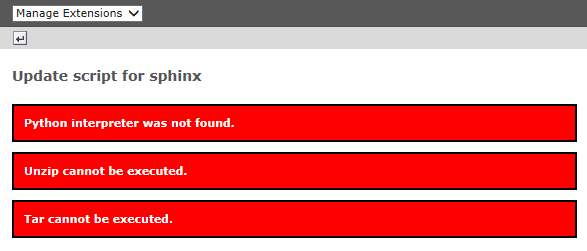
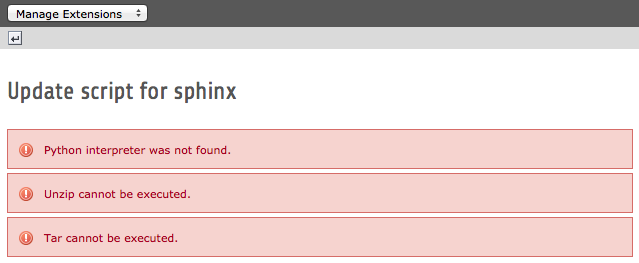
[TASK] Change color in flash messages
We should use the green color for success and respectively the
"official" yellow of TYPO3 for warnings when displaying flash
messages.

Resolves: #50766

diff --git a/class.ext_update.php b/class.ext_update.php
@@ -107,6 +107,9 @@ class ext_update extends \TYPO3\CMS\Backend\Module\BaseScriptClass {
 
 				foreach ($messages as $message) {
 					switch (TRUE) {
+						case GeneralUtility::isFirstPartOfStr($message, '[OK] '):
+							$out[] = $this->formatOk(substr($message, 5));
+							break;
 						case GeneralUtility::isFirstPartOfStr($message, '[INFO] '):
 							$out[] = $this->formatInformation(substr($message, 7));
 							break;
@@ -262,8 +265,9 @@ class ext_update extends \TYPO3\CMS\Backend\Module\BaseScriptClass {
 	 * @return string
 	 */
 	protected function formatError($message) {
-		$output = '<div style="border: solid 2px black;	background-color: #f00; color: #fff; padding: 10px; font-weight: bold; margin: 10px 0px 10px 0px;">';
-		$output .= nl2br(htmlspecialchars($message));
+		$output = '<div class="typo3-message message-error">';
+		//$output .= '<div class="message-header">Message head</div>';
+		$output .= '<div class="message-body">' . nl2br(htmlspecialchars($message)) . '</div>';
 		$output .= '</div>';
 
 		return $output;
@@ -276,8 +280,9 @@ class ext_update extends \TYPO3\CMS\Backend\Module\BaseScriptClass {
 	 * @return string
 	 */
 	protected function formatWarning($message) {
-		$output = '<div style="border: solid 2px black;	background-color: yellow; padding: 10px; font-weight: bold; margin: 10px 0px 10px 0px;">';
-		$output .= nl2br(htmlspecialchars($message));
+		$output = '<div class="typo3-message message-warning">';
+		//$output .= '<div class="message-header">Message head</div>';
+		$output .= '<div class="message-body">' . nl2br(htmlspecialchars($message)) . '</div>';
 		$output .= '</div>';
 
 		return $output;
@@ -290,12 +295,29 @@ class ext_update extends \TYPO3\CMS\Backend\Module\BaseScriptClass {
 	 * @return string
 	 */
 	protected function formatInformation($message) {
-		$output = '<div style="border: solid 2px black;	background-color: lightblue; padding: 10px; font-weight: bold; margin: 10px 0px 10px 0px;">';
-		$output .= nl2br(htmlspecialchars($message));
+		$output = '<div class="typo3-message message-information">';
+		//$output .= '<div class="message-header">Message head</div>';
+		$output .= '<div class="message-body">' . nl2br(htmlspecialchars($message)) . '</div>';
 		$output .= '</div>';
 
 		return $output;
 	}
+
+	/**
+	 * Creates an OK message for backend output.
+	 *
+	 * @param string $message
+	 * @return string
+	 */
+	protected function formatOk($message) {
+		$output = '<div class="typo3-message message-ok">';
+		//$output .= '<div class="message-header">Message head</div>';
+		$output .= '<div class="message-body">' . nl2br(htmlspecialchars($message)) . '</div>';
+		$output .= '</div>';
+
+		return $output;
+	}
+
 }
 
 ?>

diff --git a/Classes/Utility/Setup.php b/Classes/Utility/Setup.php
@@ -195,7 +195,7 @@ class Setup {
 				$out = array();
 				self::exec($cmd, $out, $ret);
 				if ($ret === 0) {
-					$output[] = '[INFO] Sphinx ' . $version . ' has been successfully installed.';
+					$output[] = '[OK] Sphinx ' . $version . ' has been successfully installed.';
 				} else {
 					$success = FALSE;
 					$output[] = '[ERROR] Could not install Sphinx ' . $version . ':' . LF . LF . implode($out, LF);
@@ -267,14 +267,14 @@ EOT;
 
 		if (is_dir($sphinxSourcesPath . $version)) {
 			if (GeneralUtility::rmdir($sphinxSourcesPath . $version, TRUE)) {
-				$output[] = '[INFO] Sources of Sphinx ' . $version . ' have been deleted.';
+				$output[] = '[OK] Sources of Sphinx ' . $version . ' have been deleted.';
 			} else {
 				$output[] = '[ERROR] Could not delete sources of Sphinx ' . $version . '.';
 			}
 		}
 		if (is_dir($sphinxPath . $version)) {
 			if (GeneralUtility::rmdir($sphinxPath . $version, TRUE)) {
-				$output[] = '[INFO] Sphinx ' . $version . ' has been deleted.';
+				$output[] = '[OK] Sphinx ' . $version . ' has been deleted.';
 			} else {
 				$output[] = '[ERROR] Could not delete Sphinx ' . $version . '.';
 			}
@@ -751,7 +751,7 @@ EOT;
 		if ($libraryContent) {
 			if (!is_file($libraryFilename) || md5_file($libraryFilename) !== md5($libraryContent)) {
 				if (GeneralUtility::writeFile($libraryFilename, $libraryContent)) {
-					$output[] = '[INFO] TypoScript library for Pygments successfully downloaded/updated.';
+					$output[] = '[OK] TypoScript library for Pygments successfully downloaded/updated.';
 				}
 			}
 			if (is_file($libraryFilename)) {
@@ -762,7 +762,7 @@ EOT;
 				$out = array();
 				self::exec($cmd, $out, $ret);
 				if ($ret === 0) {
-					$output[] = '[INFO] TypoScript library successfully registered with Pygments.';
+					$output[] = '[OK] TypoScript library successfully registered with Pygments.';
 				} else {
 					$output[] = '[WARNING] Could not install TypoScript library for Pygments.';
 				}
@@ -1025,7 +1025,7 @@ EOT;
 			self::exec($cmd, $out, $ret);
 			if ($ret === 0) {
 				$success = TRUE;
-				$output[] = '[INFO] ' . $name . ' successfully installed.';
+				$output[] = '[OK] ' . $name . ' successfully installed.';
 			} else {
 				$success = FALSE;
 				$output[] = '[ERROR] Could not install ' . $name . ':' . LF . LF . implode($out, LF);

diff --git a/Documentation/ChangeLog/Index.rst b/Documentation/ChangeLog/Index.rst
@@ -20,6 +20,7 @@ The following is a very high level overview of the changes in this extension. Fo
 Version  Changes
 =======  ======================================================
 1.1.0    - Extend EXT:documentation (TYPO3 6.2)
+         - Pygments with TypoScript highlighting
          - OpenOffice to Sphinx converter (using online tool on http://docs.typo3.org)
 1.0.0    - Support for rst2pdf
          - TYPO3 branding when rendering PDF with LaTeX
